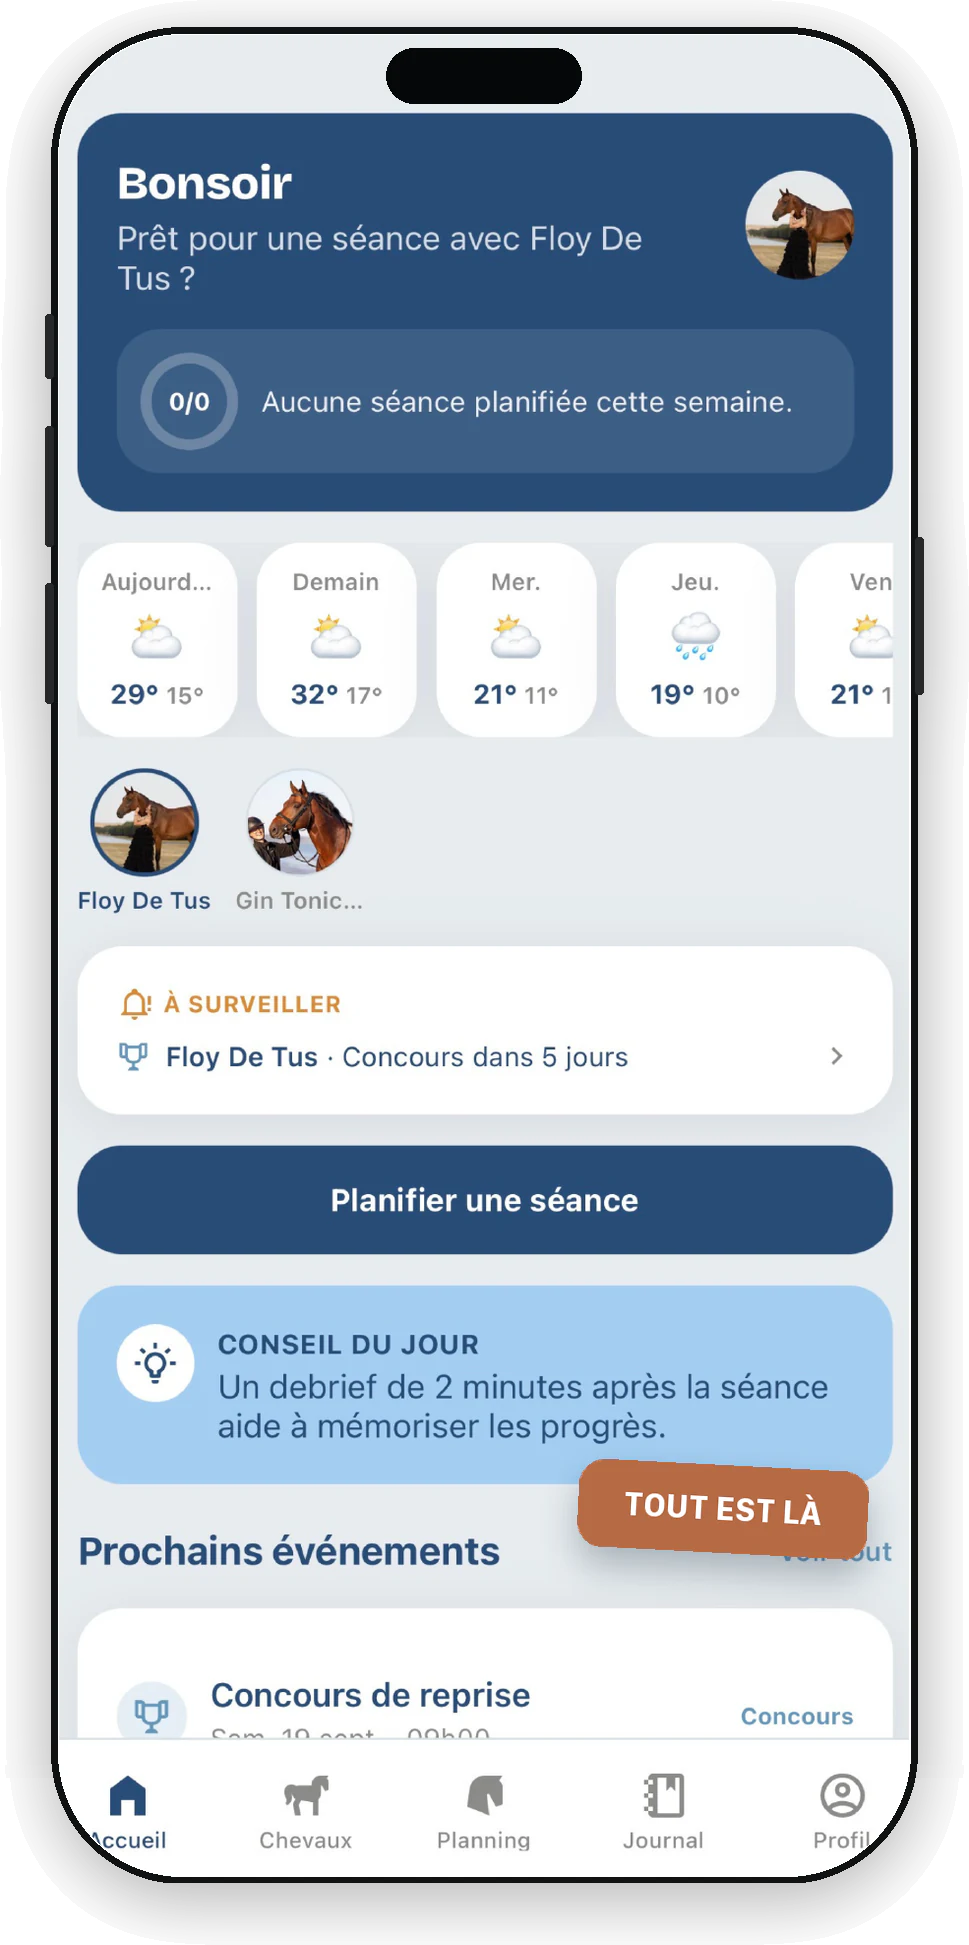
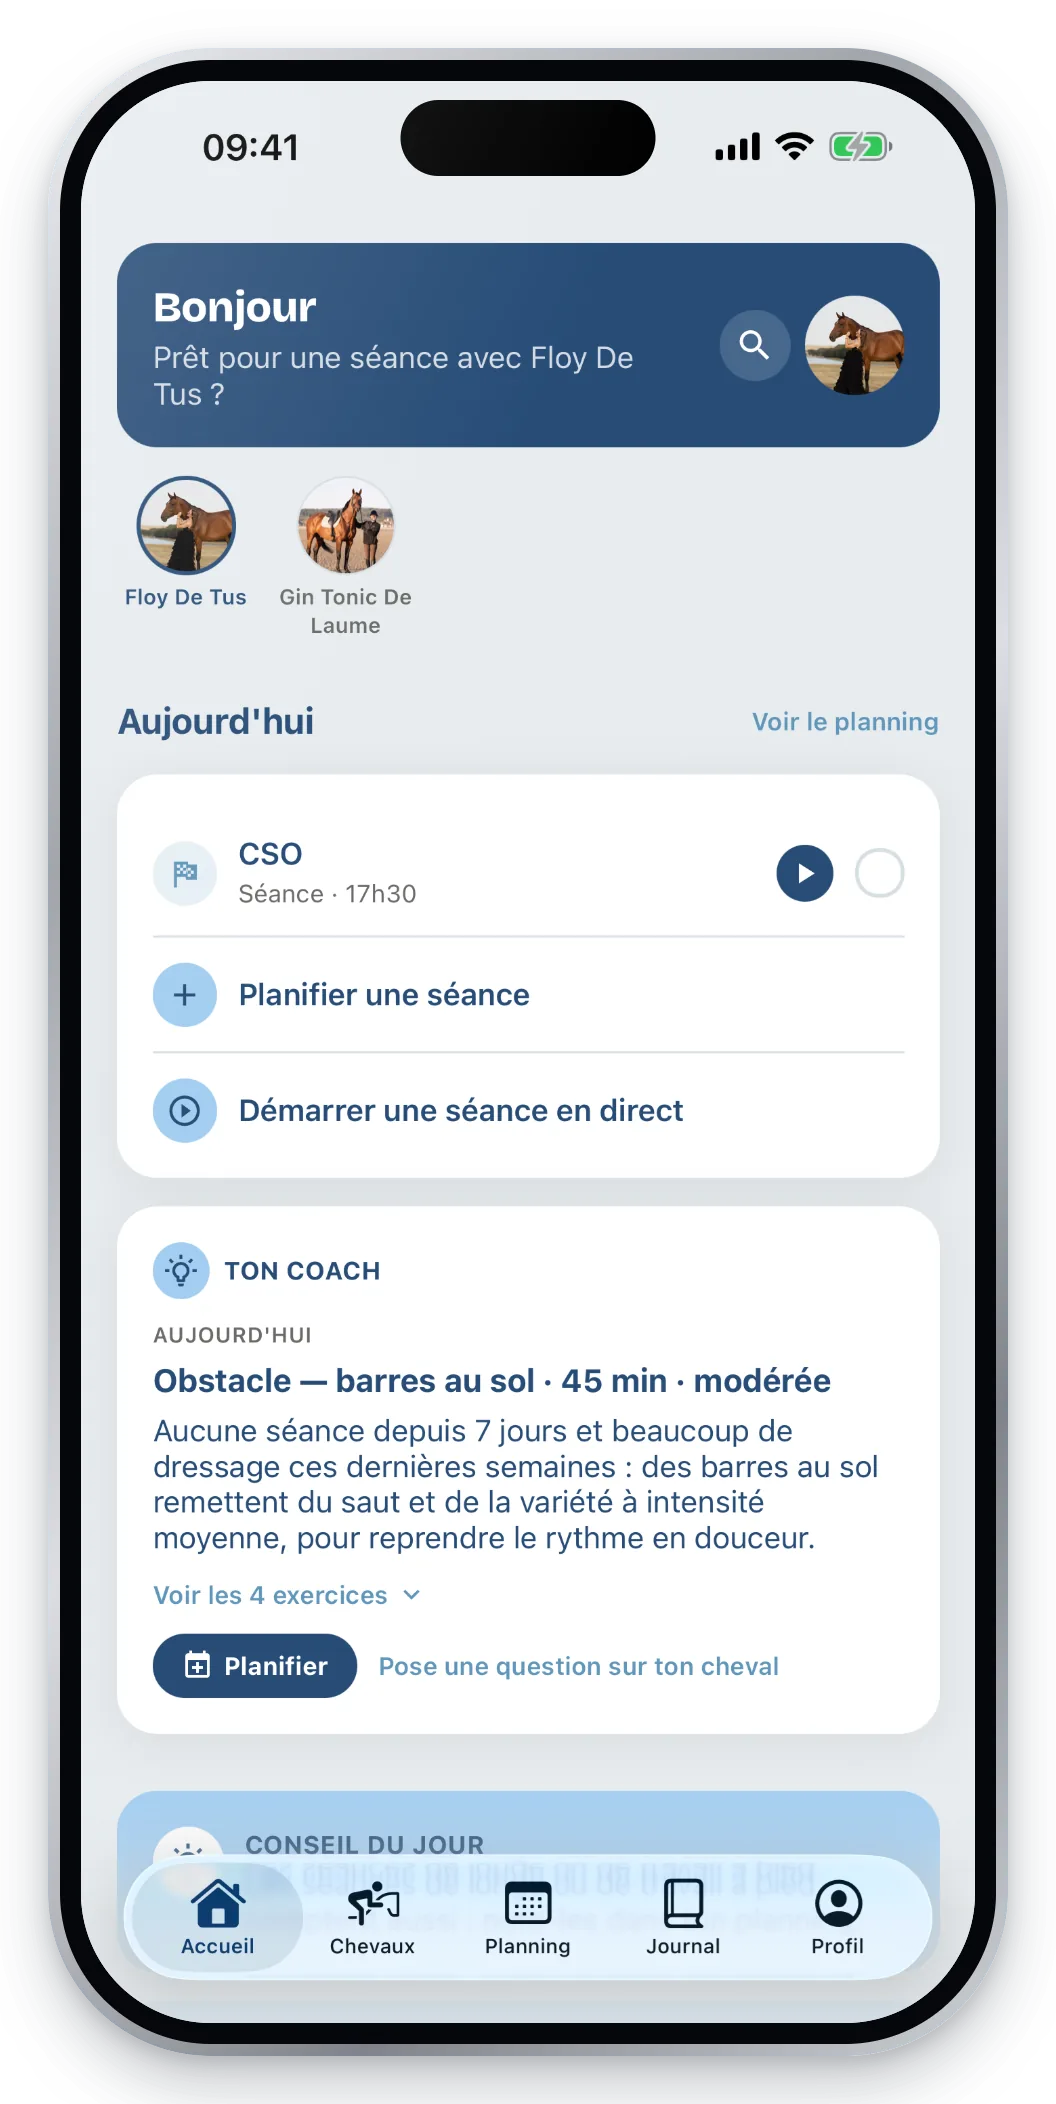
Site : à jour avec la 1.2.0 — nouvelles captures de l'app, coach IA, séance en direct, budget et partage
- Captures refaites à partir de l'app 1.2.0 (accueil, coach, séance en direct,
  planning, journal, fiche cheval, partage, budget) : iPhone vu de face sur fond
  transparent, même cadre que les visuels App Store
  (tools/store-screenshots/site-phones.mjs). Les anciennes, de septembre,
  montraient l'ancien design.
- Nouvelles sections : séance en direct avec GPS et sécurité en balade, coach
  IA (accord explicite, jamais d'avis médical), budget, partage avec droits
  par rôle ; widget dans le planning.
- Formules alignées sur le paywall de l'app (séances en direct gratuites ;
  coach, sécurité en balade, budget détaillé, rapport et export en Premium).
  Le budget poste par poste est bien présenté comme Premium.
- FAQ : coach IA et batterie de la séance en direct. Description et données
  structurées mises à jour. Aucune mention d'Écurie Pro.

diff --git a/apps/web/src/content/home.ts b/apps/web/src/content/home.ts
@@ -12,12 +12,17 @@ export const FEATURES: { icon: IconName; title: string; text: string }[] = [
   {
     icon: "calendar",
     title: "Planning",
-    text: "Séances, soins et concours réunis dans un seul planning, en liste ou par mois, avec des filtres pour tout retrouver.",
+    text: "Séances, soins et concours réunis dans un seul planning, en liste ou par mois. Avec Premium, vos créneaux réguliers reviennent seuls chaque semaine.",
   },
   {
-    icon: "timer",
-    title: "Séances",
-    text: "Dressage, CSO, balade, longe ou repos : choisissez la durée et l'intensité, répétez la séance si besoin, cochez-la une fois faite.",
+    icon: "route",
+    title: "Séance en direct",
+    text: "Lancez le chrono en selle : distance, vitesse, allures et tracé GPS s'enregistrent, même écran verrouillé.",
+  },
+  {
+    icon: "bulb",
+    title: "Coach IA",
+    text: "Posez vos questions sur votre cheval : le coach répond d'après son carnet et vous propose une idée de séance (Premium).",
   },
   {
     icon: "syringe",
@@ -37,17 +42,12 @@ export const FEATURES: { icon: IconName; title: string; text: string }[] = [
   {
     icon: "wallet",
     title: "Budget",
-    text: "Notez chaque dépense et sachez enfin ce que coûte votre cheval. Avec Premium, voyez ce qui est payé et ce qui reste à régler.",
-  },
-  {
-    icon: "sun",
-    title: "Suivi quotidien",
-    text: "Chaque jour, l'accueil vous montre la météo, ce qui est à surveiller et vos prochains rendez-vous.",
+    text: "Chaque dépense notée, et le total du mois. Avec Premium, la répartition par poste, le rapport du mois en PDF et l'export en tableur.",
   },
   {
     icon: "users",
     title: "À plusieurs",
-    text: "Suivez tous vos chevaux et partagez l'accès avec votre demi-pension, votre coach ou votre groom (Premium).",
+    text: "Suivez tous vos chevaux et partagez-en un avec votre demi-pension, votre coach ou votre groom, chacun avec ses droits (Premium).",
   },
 ];
 
@@ -63,23 +63,37 @@ export type Story = {
 
 export const STORIES: Story[] = [
   {
-    id: "seances",
-    eyebrow: "Séances",
+    id: "seance-direct",
+    eyebrow: "Séance en direct",
     tone: "blue",
-    title: ["Planifiez", "vos séances."],
-    text: "Dressage, CSO, balade, longe ou repos : une séance se crée en quelques secondes. Choisissez la date, la durée et l'intensité, répétez-la si besoin, puis cochez-la une fois faite.",
+    title: ["Montez.", "L'app compte pour vous."],
+    text: "Choisissez le cheval et l'activité, touchez « Démarrer » : chrono, distance, vitesse et allures s'enregistrent pendant que vous montez, même téléphone en poche. À la fin, la séance rejoint votre planning avec son tracé.",
     bullets: [
-      "Six types de séance, de la longe au jour de repos",
-      "Durée et intensité en un geste",
-      "Séances répétées automatiquement",
-      "Votre objectif de la semaine sur l'accueil",
+      "Chrono, distance, vitesse et allures estimées",
+      "Le tracé GPS de votre parcours",
+      "Fonctionne écran verrouillé, et sans GPS en manège",
+      "En balade, « Prévenir mes proches » : une alerte si vous ne bougez plus (Premium)",
     ],
-    screens: ["nouvelleSeance"],
+    screens: ["seanceDirectDepart", "seanceDirect"],
+  },
+  {
+    id: "coach",
+    eyebrow: "Coach IA",
+    tone: "copper",
+    title: ["Un coach qui connaît", "votre cheval."],
+    text: "Quand a-t-il été vermifugé ? Combien avez-vous dépensé en maréchal cette année ? Le coach répond d'après le carnet de votre cheval, propose une idée de séance adaptée et résume votre mois. Il ne s'active qu'avec votre accord, et ne remplace jamais votre vétérinaire.",
+    bullets: [
+      "Des réponses tirées de vos séances, soins et dépenses",
+      "Une idée de séance chaque jour, expliquée",
+      "Le résumé de votre mois",
+      "Rien n'est envoyé sans votre accord (Premium)",
+    ],
+    screens: ["coach"],
   },
   {
     id: "soins",
     eyebrow: "Soins & santé",
-    tone: "copper",
+    tone: "sky",
     title: ["N'oubliez plus", "aucun soin."],
     text: "Maréchal, véto, ostéo, dentiste, vaccins, vermifuges : tout est noté sur la fiche de votre cheval, avec la prochaine échéance bien visible. Un rappel vous prévient avant chaque rendez-vous.",
     bullets: [
@@ -91,18 +105,19 @@ export const STORIES: Story[] = [
     screens: ["ficheCheval"],
   },
   {
-    id: "concours",
-    eyebrow: "Concours",
-    tone: "sky",
-    title: ["Préparez", "vos concours."],
-    text: "Vos concours prennent place dans le planning, à côté des séances et des soins. Détaillez-les épreuve par épreuve et activez un rappel pour ne rien laisser au hasard.",
+    id: "planning",
+    eyebrow: "Planning & concours",
+    tone: "blue",
+    title: ["Toute la semaine,", "d'un coup d'œil."],
+    text: "Séances, soins et concours prennent place dans un même planning. Cochez une séance d'un geste une fois faite, suivez votre semaine, et laissez vos créneaux réguliers revenir tout seuls.",
     bullets: [
-      "Concours, soins et séances dans un même planning",
-      "Le détail épreuve par épreuve (Premium)",
-      "Un rappel activé en un geste",
-      "Des filtres pour n'afficher que ce qui compte",
+      "Séances, soins et concours au même endroit",
+      "La semaine en cours : faites et à venir",
+      "Un widget : la séance du jour sur l'écran d'accueil",
+      "Créneaux réguliers chaque semaine (Premium)",
+      "Concours détaillés épreuve par épreuve (Premium)",
     ],
-    screens: ["planningConcours"],
+    screens: ["planning"],
   },
   {
     id: "journal",
@@ -119,17 +134,32 @@ export const STORIES: Story[] = [
     screens: ["journal"],
   },
   {
-    id: "chevaux",
-    eyebrow: "Vos chevaux",
-    tone: "blue",
-    title: ["Tous vos chevaux.", "Une seule app."],
-    text: "Une fiche complète par cheval : discipline, niveau, race, mais aussi tempérament et points à travailler. Pour mieux le connaître, et le faire connaître à celles et ceux qui s'en occupent avec vous.",
+    id: "budget",
+    eyebrow: "Budget",
+    tone: "sky",
+    title: ["Sachez enfin ce que", "coûte votre cheval."],
+    text: "Pension, maréchal, véto, alimentation : notez chaque dépense et voyez le total du mois et de l'année. Avec Premium, voyez où part votre budget poste par poste, ce qui reste à régler, et exportez tout pour vos comptes.",
     bullets: [
-      "Tempérament et points à travailler",
-      "Chevaux illimités avec Premium",
-      "Partage avec votre demi-pension, votre coach ou votre groom (Premium)",
+      "Le total du mois et de l'année",
+      "La répartition par catégorie et ce qui reste à régler (Premium)",
+      "Le rapport du mois en PDF (Premium)",
+      "L'export de l'année en PDF ou en tableur (Premium)",
     ],
-    screens: ["chevaux", "ajouterCheval"],
+    screens: ["budget"],
+  },
+  {
+    id: "partage",
+    eyebrow: "À plusieurs",
+    tone: "blue",
+    title: ["Partagez votre cheval.", "Gardez la main."],
+    text: "Invitez votre demi-pension, votre coach ou votre groom : il retrouve le planning, les soins et les rendez-vous du cheval. Chacun a les droits de son rôle, et votre budget reste à vous.",
+    bullets: [
+      "Une personne invitée par cheval (Premium)",
+      "Des droits selon le rôle : la DP note ses séances",
+      "Votre budget et vos documents restent privés",
+      "Chevaux illimités avec Premium",
+    ],
+    screens: ["partage"],
   },
 ];
 
@@ -191,10 +221,11 @@ export const PLANS = {
     audience: "Pour suivre un cheval au quotidien.",
     items: [
       "1 cheval",
-      "Planning et séances",
-      "Agenda des soins et rendez-vous",
+      "Planning, séances et agenda des soins",
+      "Séances en direct : chrono, GPS, allures",
       "Journal avec météo",
       "Suivi des dépenses",
+      "Objectifs",
       "1 rappel à la fois",
     ],
   },
@@ -207,13 +238,14 @@ export const PLANS = {
     audience: "Pour tout suivre, à plusieurs et sans limite.",
     items: [
       "Chevaux illimités",
+      "Coach IA : questions sur votre cheval, idée de séance, résumé du mois",
       "Rappels illimités, par notification et email",
       "Coffre-fort : ordonnances et factures en photo",
       "Partage avec votre DP, coach ou groom",
+      "Sécurité en balade : vos proches prévenus si vous ne bougez plus",
       "Concours détaillés épreuve par épreuve",
-      "Dépenses payées et restant à régler",
-      "Créneaux réguliers chaque semaine et rapport du mois en PDF",
-      "Export des dépenses de l'année en PDF ou en tableur",
+      "Budget détaillé, rapport du mois en PDF et export en tableur",
+      "Créneaux réguliers chaque semaine",
     ],
   },
   pro: {
@@ -237,11 +269,11 @@ export const PLANS = {
 export const FAQ: { q: string; a: string }[] = [
   {
     q: "Horsetrack est-il gratuit ?",
-    a: `Oui. La version gratuite suit 1 cheval, sans limite de durée, avec le planning, l'agenda des soins, le journal, les dépenses et un rappel à la fois. Horsetrack Premium ajoute le reste, avec ${PRICING.trial} d'essai gratuit.`,
+    a: `Oui. La version gratuite suit 1 cheval, sans limite de durée, avec le planning, l'agenda des soins, les séances en direct avec GPS, le journal, les dépenses et un rappel à la fois. Horsetrack Premium ajoute le reste, avec ${PRICING.trial} d'essai gratuit.`,
   },
   {
     q: "Que contient Horsetrack Premium ?",
-    a: `Les chevaux et les rappels illimités (notification et email), le coffre-fort pour vos ordonnances et factures, le partage d'un cheval avec une personne (demi-pension, coach ou groom), le détail des concours épreuve par épreuve, le suivi de ce qui est payé ou reste à régler, les créneaux réguliers de la semaine, le rapport du mois en PDF et l'export des dépenses en PDF ou tableur. ${PRICING.monthly} par mois ou ${PRICING.yearly} par an, après ${PRICING.trial} d'essai.`,
+    a: `Le coach IA, les chevaux et les rappels illimités (notification et email), le coffre-fort pour vos ordonnances et factures, le partage d'un cheval avec une personne (demi-pension, coach ou groom), la sécurité en balade, le détail des concours épreuve par épreuve, le budget détaillé, les créneaux réguliers de la semaine, le rapport du mois en PDF et l'export des dépenses en PDF ou tableur. ${PRICING.monthly} par mois ou ${PRICING.yearly} par an, après ${PRICING.trial} d'essai.`,
   },
   {
     q: "Sur quels appareils fonctionne Horsetrack ?",
@@ -250,6 +282,14 @@ export const FAQ: { q: string; a: string }[] = [
   {
     q: "Puis-je partager mon cheval avec ma demi-pension ou mon coach ?",
     a: "Oui : avec Premium, invitez une personne par cheval. Elle retrouve le planning, les soins et les rendez-vous du cheval, avec les droits de son rôle : une demi-pension note ses séances, le budget reste visible par vous seul.",
+  },
+  {
+    q: "Comment fonctionne le coach IA ?",
+    a: "Avec Premium, posez une question sur votre cheval : le coach répond d'après son carnet (séances, soins, dépenses, poids), propose une idée de séance et résume votre mois. Il ne s'active qu'après votre accord explicite, retirable à tout moment : seuls les faits utiles sont envoyés à notre prestataire d'IA, sans votre nom ni votre email. Il ne donne aucun avis médical ; pour un symptôme, il vous oriente vers votre vétérinaire.",
+  },
+  {
+    q: "La séance en direct consomme-t-elle ma batterie ?",
+    a: "Le GPS ne fonctionne que pendant la séance que vous avez lancée, et s'arrête dès que vous la terminez. En manège couvert, coupez le suivi du parcours : le chrono fonctionne sans GPS.",
   },
   {
     q: "Comment fonctionnent les rappels ?",
@@ -275,6 +315,8 @@ export const FAQ: { q: string; a: string }[] = [
 
 export const MARQUEE = [
   "Planning",
+  "Séance en direct",
+  "Coach IA",
   "Séances",
   "Soins & santé",
   "Concours",

diff --git a/apps/web/src/content/screens.ts b/apps/web/src/content/screens.ts
@@ -1,43 +1,54 @@
 import type { StaticImageData } from "next/image";
 import accueil from "@/assets/screens/accueil.webp";
-import ajouterCheval from "@/assets/screens/ajouter-cheval.webp";
-import chevaux from "@/assets/screens/chevaux.webp";
+import budget from "@/assets/screens/budget.webp";
+import coach from "@/assets/screens/coach.webp";
 import ficheCheval from "@/assets/screens/fiche-cheval.webp";
 import journal from "@/assets/screens/journal.webp";
-import nouvelleSeance from "@/assets/screens/nouvelle-seance.webp";
-import planningConcours from "@/assets/screens/planning-concours.webp";
+import partage from "@/assets/screens/partage.webp";
+import planning from "@/assets/screens/planning.webp";
+import seanceDirect from "@/assets/screens/seance-direct.webp";
+import seanceDirectDepart from "@/assets/screens/seance-direct-depart.webp";
 
-/** Captures réelles de l'app (détourées depuis les visuels App Store par
- * scripts/extract-screens.mjs). Le texte alternatif décrit ce que montre
- * l'écran, pas le message marketing autour. */
+/** Captures réelles de l'app 1.2.0 (iPhone détouré, fond transparent),
+ * produites par tools/store-screenshots/site-phones.mjs à partir des captures
+ * du simulateur. Le texte alternatif décrit ce que montre l'écran, pas le
+ * message marketing autour. */
 export const SCREENS = {
   accueil: {
     image: accueil,
-    alt: "Écran d'accueil de Horsetrack : salutation, météo des prochains jours, chevaux, alerte « Concours dans 5 jours » et bouton « Planifier une séance ».",
+    alt: "Écran d'accueil de Horsetrack : salutation, les deux chevaux, la séance de CSO du jour, les boutons « Planifier une séance » et « Démarrer une séance en direct », puis l'idée de séance du coach.",
   },
-  nouvelleSeance: {
-    image: nouvelleSeance,
-    alt: "Création d'une séance : type (dressage, CSO, balade, longe, repos), date, heure, durée, intensité et répétition.",
+  coach: {
+    image: coach,
+    alt: "Coach IA : champ « Pose une question sur ton cheval », questions suggérées (prochain vermifuge, dépenses de maréchal, séances du mois) et une réponse tirée du carnet du cheval.",
   },
-  ficheCheval: {
-    image: ficheCheval,
-    alt: "Fiche du cheval Floy De Tus : photo, objectif de saison, maréchal-ferrant dans 30 jours, entraînement, concours et journal.",
+  seanceDirect: {
+    image: seanceDirect,
+    alt: "Séance en direct : chronomètre à 2 min 34, trot estimé, 481 mètres parcourus à 11,5 km/h, tracé du parcours et boutons Pause et Terminer.",
   },
-  planningConcours: {
-    image: planningConcours,
-    alt: "Planning en liste : concours de reprise le 19 septembre avec rappel activé, puis les événements passés (balade, ferrure).",
+  seanceDirectDepart: {
+    image: seanceDirectDepart,
+    alt: "Départ d'une séance en direct : choix du cheval et de l'activité, suivi du parcours par GPS et option « Prévenir mes proches ».",
+  },
+  planning: {
+    image: planning,
+    alt: "Planning en liste : 0 séance faite sur 4 cette semaine, puis les séances à venir (CSO aujourd'hui, dressage demain, balade jeudi).",
   },
   journal: {
     image: journal,
-    alt: "Journal : séance de CSO du 8 septembre avec photo du saut, ressenti « Top » et météo (pluie, 22 °C).",
+    alt: "Journal : séance de CSO du 8 novembre avec la photo du cheval et le ressenti « Super séance, il a sauté avec de la légèreté ».",
   },
-  chevaux: {
-    image: chevaux,
-    alt: "Liste des chevaux : Floy De Tus et Gin Tonic De Laume, avec le prochain passage du maréchal-ferrant.",
+  ficheCheval: {
+    image: ficheCheval,
+    alt: "Fiche du cheval Floy De Tus : photo, objectif de saison, et les rubriques santé, entraînement, journal et budget avec leurs chiffres du moment.",
   },
-  ajouterCheval: {
-    image: ajouterCheval,
-    alt: "Ajout d'un cheval : niveau de forme, charge de travail, tempérament et points à travailler.",
+  partage: {
+    image: partage,
+    alt: "Partage du cheval : invitation par email et choix du rôle de la personne invitée (demi-pension, coach, cavalière, groom).",
+  },
+  budget: {
+    image: budget,
+    alt: "Budget : 597 € ce mois-ci et 1 800 € cette année, la répartition par catégorie (pension, maréchal, vétérinaire…) et l'historique mois par mois.",
   },
 } satisfies Record<string, { image: StaticImageData; alt: string }>;
 

diff --git a/apps/web/src/components/sections/Hero.tsx b/apps/web/src/components/sections/Hero.tsx
@@ -15,8 +15,9 @@ export function Hero() {
             <span>Toute votre vie</span> <span>équestre.</span> <span className="accent">Au même endroit.</span>
           </h1>
           <p className={`lead ${styles.lead}`}>
-            Séances, soins, concours, journal et budget : Horsetrack réunit le suivi de vos chevaux dans une seule app.
-            Fini les ordonnances perdues, le vermifuge oublié ou le carnet resté à l&apos;écurie.
+            Séances en direct avec GPS, soins, concours, journal, budget et un coach IA qui connaît votre cheval :
+            Horsetrack réunit tout son suivi dans une seule app. Fini les ordonnances perdues, le vermifuge oublié ou
+            le carnet resté à l&apos;écurie.
           </p>
           <div className={styles.actions}>
             <AppStoreBadge id="hero-cta" size="lg" />
@@ -52,7 +53,7 @@ export function Hero() {
           </div>
           <div className={`${styles.phone} ${styles.right}`}>
             <div className={styles.float}>
-              <Screen name="planningConcours" decorative sizes="(min-width: 960px) 250px, 34vw" />
+              <Screen name="planning" decorative sizes="(min-width: 960px) 250px, 34vw" />
             </div>
           </div>
           <div className={`${styles.phone} ${styles.main}`}>

diff --git a/apps/web/src/content/site.ts b/apps/web/src/content/site.ts
@@ -26,10 +26,10 @@ export const SITE_URL = httpsOrigin(
 export const SITE_NAME = "Horsetrack";
 export const SITE_TAGLINE = "Toute votre vie équestre, au même endroit.";
 export const SITE_DESCRIPTION =
-  "Planning, séances, soins, concours, journal et budget : Horsetrack réunit tout le suivi de vos chevaux dans une app iPhone. Gratuit pour 1 cheval, Premium pour en suivre autant que vous voulez.";
+  "Planning, séances en direct avec GPS, soins, concours, journal, budget et coach IA : Horsetrack réunit tout le suivi de vos chevaux dans une app iPhone. Gratuit pour 1 cheval, Premium pour en suivre autant que vous voulez.";
 
 /** Date de dernière mise à jour du contenu (sitemap). */
-export const CONTENT_UPDATED = "2026-11-08";
+export const CONTENT_UPDATED = "2026-11-12";
 
 export const APP_STORE_ID = "6786889092";
 export const APP_STORE_URL = `https://apps.apple.com/fr/app/horsetrack/id${APP_STORE_ID}`;

diff --git a/apps/web/src/components/Icon.tsx b/apps/web/src/components/Icon.tsx
@@ -51,6 +51,20 @@ const PATHS = {
       <path d="M22 21v-2a4 4 0 0 0-3-3.87M16 3.13a4 4 0 0 1 0 7.75" />
     </>
   ),
+  // Coach : une ampoule, comme dans l'app.
+  bulb: (
+    <>
+      <path d="M9 18h6M10 21.5h4M12 2.5a6.5 6.5 0 0 0-3.9 11.7c.6.5.9 1.1.9 1.8v.5h6V16c0-.7.3-1.3.9-1.8A6.5 6.5 0 0 0 12 2.5Z" />
+    </>
+  ),
+  // Séance en direct : un tracé entre deux points.
+  route: (
+    <>
+      <circle cx="6" cy="19" r="2.5" />
+      <circle cx="18" cy="5" r="2.5" />
+      <path d="M8.5 19H15a3.5 3.5 0 0 0 0-7H9a3.5 3.5 0 0 1 0-7h6.5" />
+    </>
+  ),
   bell: (
     <>
       <path d="M6 8a6 6 0 0 1 12 0c0 7 3 9 3 9H3s3-2 3-9M10.3 21a1.94 1.94 0 0 0 3.4 0" />
